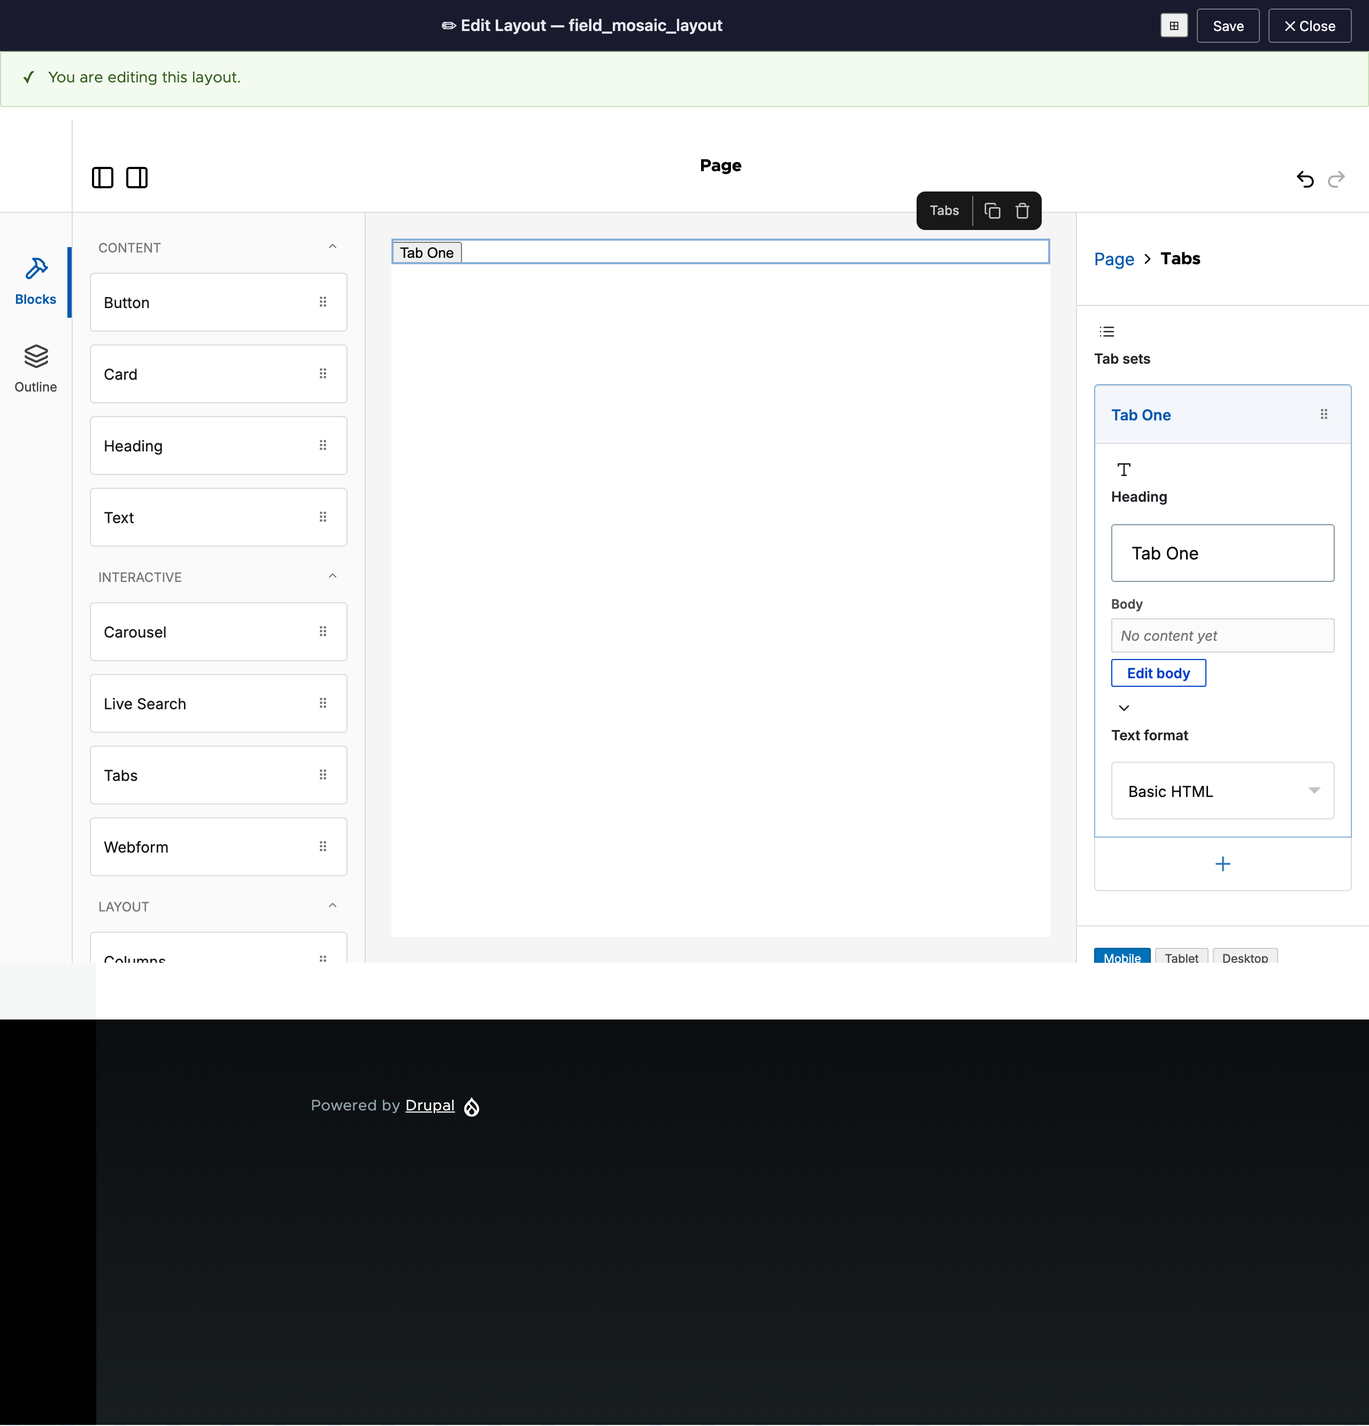
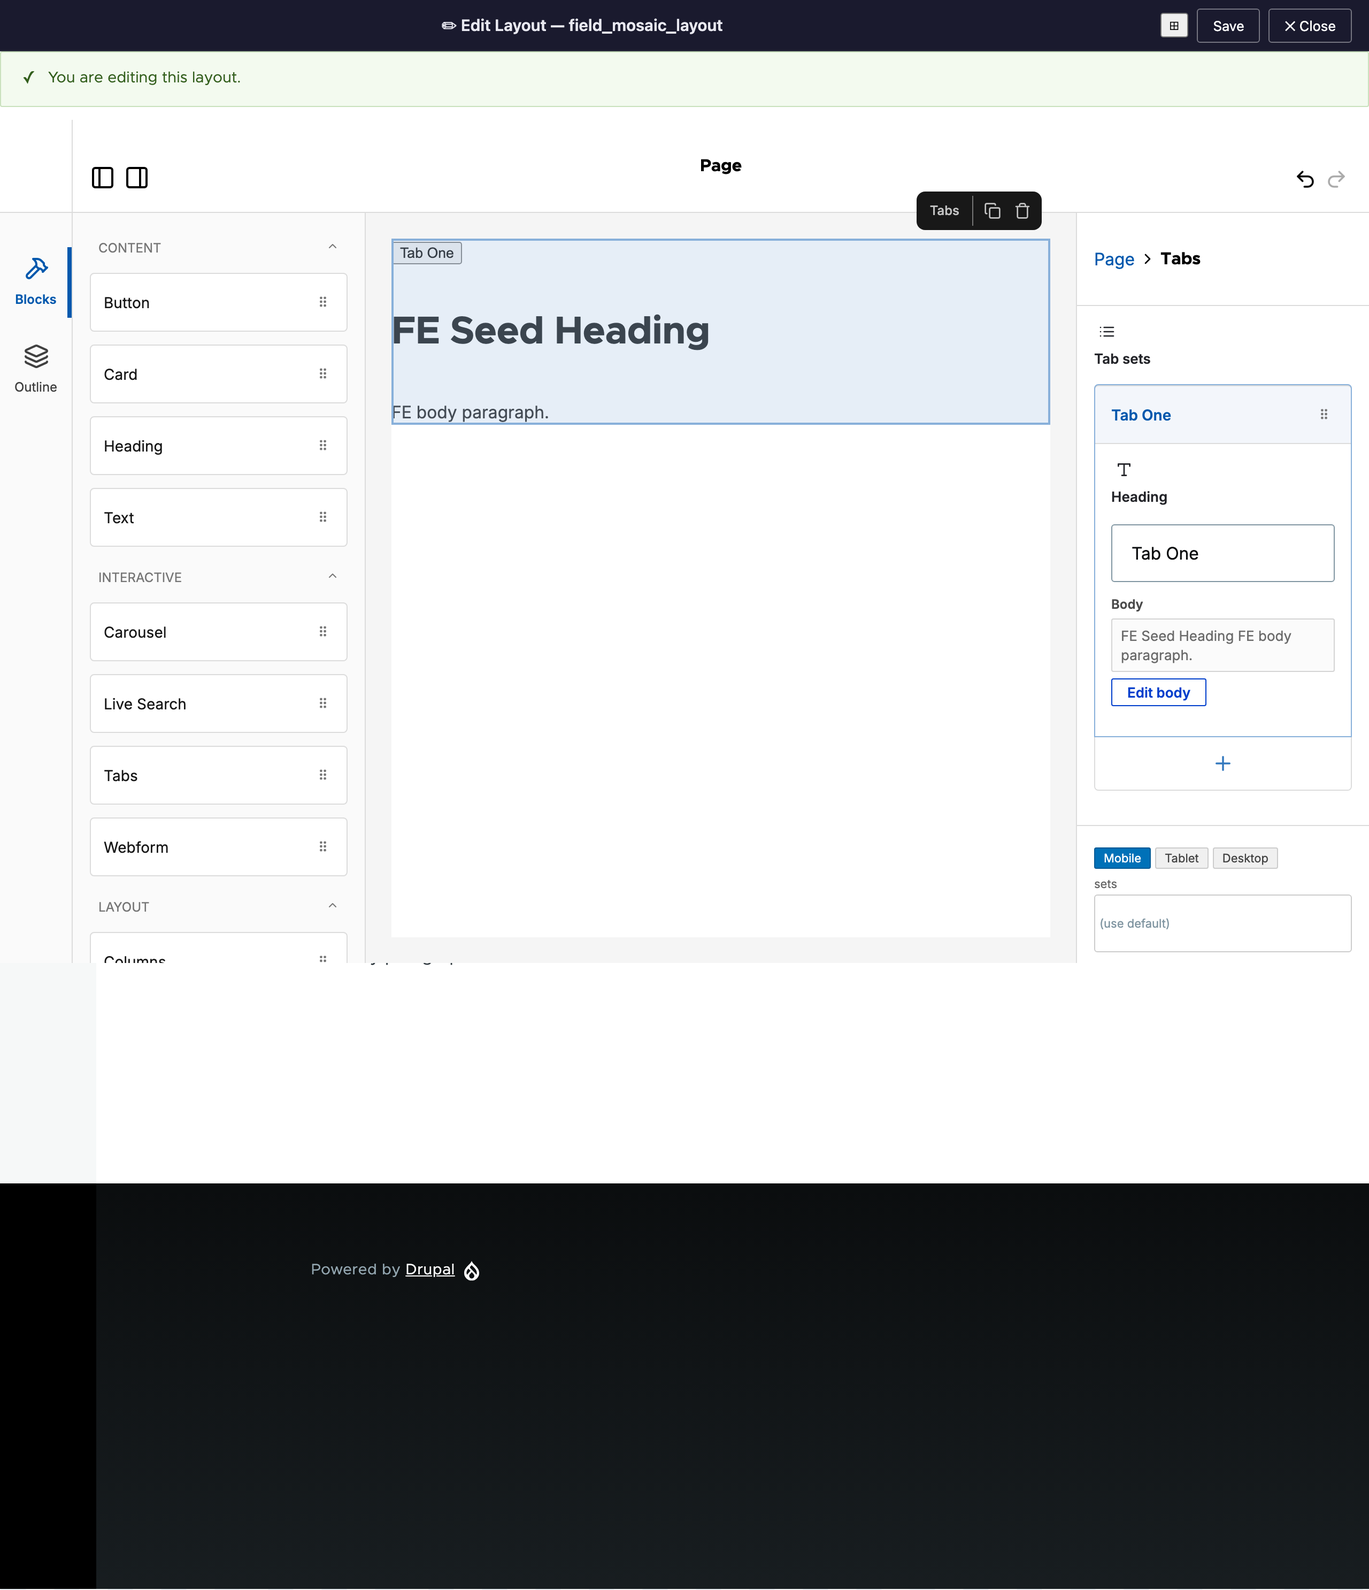
CP-EDIT21 editor UX round 2: album v3 + refreshed reports
Format select moved into the body modal (change → CKE5 re-attaches with that
format's toolbar; bodyFormat persists via a bridge — RED→GREEN, proven live).
Fit-to-content modal with the editable as the only scroller. Panel preview is now
a plain-text excerpt (no giant-heading-in-a-tiny-box). W4 FE-media admin-themed
iframe spike: STOP + report (route resists) — U3 kept. 20 frames, 3 green journeys,
real-pointer + elementFromPoint z-order oracles. SHIP-31 refreshed to 51 files.

diff --git a/tabs-cke5/INDEX.md b/tabs-cke5/INDEX.md
@@ -1,54 +1,56 @@
-# tabs-cke5 — CP-BODY-CKE5 + CP-EDIT20 journey album (v2)
+# tabs-cke5 — CP-BODY-CKE5 + CP-EDIT20 + CP-EDIT21 journey album (v3)
 
-CKEditor 5 body editor (expand modal) replacing the old in-panel TipTap fork.
-Three green full-lifecycle Playwright journeys, captured under the evidence-quality
-law (fullPage overviews / targeted assertion-region frames, deviceScaleFactor 2).
-Each journey uses a throwaway scratch node, auto-deleted (DB net-zero).
+CKEditor 5 body editor (expand modal) replacing the old in-panel TipTap fork, plus
+two rounds of editor-UX hardening. Three green full-lifecycle Playwright journeys,
+captured under the evidence-quality law (fullPage overviews / targeted assertion-region
+frames, deviceScaleFactor 2). Each journey uses a throwaway scratch node, auto-deleted
+(DB net-zero). Media steps use REAL pointers + a `document.elementFromPoint` z-order
+oracle (never evaluate-click).
 
-**v2 (CP-EDIT20, editor UX hardening #39–44):** the media-insert steps are now driven
-by REAL pointer interactions (locator.click / page.mouse — never evaluate-click) and
-assert z-order via `document.elementFromPoint` at the target's centre. The `media-library`
-frames prove the library lands **on top and is clickable** — admin (#40, modal z-index
-below Drupal's jQuery-UI dialog) and frontend (#43, the library is moved INTO the
-top-layer `<dialog>`). Other CP-EDIT20 items (fixed-shell modal, panel Body label + 3-line
-clamp preview, panel↔canvas active-tab sync, save-while-open guard) are covered by unit
-tests; see `reports/REPORT-CKE5.md`.
+**v3 (CP-EDIT21, editor UX round 2):** the format select moved INTO the modal (changing
+it re-attaches CKE5 with that format's toolbar — RED→GREEN); the modal fits content with
+the CKE5 editable as the only scroller; the panel preview is a plain-text excerpt (no
+more giant-heading-in-a-tiny-box). See `reports/REPORT-CKE5.md` for W0–W5 detail incl.
+the W4 FE-media iframe spike verdict (STOP + report).
 
 ## Admin surface — `tabs-cke5-journey.spec.ts`
-open seeded Tabs → Edit body (CKE5) → insert media → Apply → save → reload → render.
+open seeded Tabs → W3 plain-text preview → CKE5 modal (W1 geometry) → W2 format
+re-attach + bridge persistence → insert media (real pointer + z-order) → Apply → save →
+reload → anonymous render.
 
 | Frame | Shows | Proves |
 |-------|-------|--------|
-| `01-builder-open.png` | Admin builder open on the seeded Tabs node | step 01 — builder loads the layout |
-| `02-tab-set-expanded.png` | Tab set expanded: "Edit body" preview button | step 02 — richtext is a preview+button, `.ProseMirror` count 0 → TipTap gone |
-| `03-cke5-open.png` | CKE5 "Body" modal, editor attached, dimmed backdrop | step 03 — `Drupal.editorAttach` mounts CKE5 in the modal |
-| `04-media-library.png` | Drupal media library dialog opened from CKE5 | step 04 — the drupalMedia toolbar button works |
-| `05-media-in-cke5-body.png` | **Inserted image VISIBLE inside the CKE5 body** | step 04 assertion — media lands in `.ck-content` (MONEY FRAME) |
-| `06-applied.png` | Modal closed after Apply | step 05 — serialized layout carries `drupal-media` |
-| `07-saved.png` | Node saved, redirected to `/node/N` | step 06 — save succeeds |
-| `08-reloaded-persisted.png` | Builder reloaded | step 07 — persisted field JSON still has `drupal-media` |
-| `09-page-render.png` | Anonymous published page | step 08 — tabs + media render for visitors |
+| `01-builder-open.png` | Admin builder on the seeded Tabs node | builder loads the layout |
+| `02-tab-set-expanded.png` | Panel: "Body" label + **plain-text excerpt** + Edit body | W3 — excerpt is body-size text (<18px), no child markup, no scrollbar (contrast W0's 32px) |
+| `03-cke5-format-fullhtml.png` | Modal after selecting **Full HTML** | W2 — editor re-attached with full_html (toolbar swaps); bodyFormat persisted via the bridge |
+| `04-cke5-open.png` | CKE5 "Body" modal (back on Basic HTML) | W1 — fits-content modal, in-modal format select under the editable, ≤1 scroller |
+| `05-media-library.png` | Media library open from CKE5 | media button works; z-order oracle = library on top (#40) |
+| `06-media-in-cke5-body.png` | **Inserted image inside the CKE5 body** | media lands in `.ck-content` (MONEY FRAME) |
+| `07-applied.png` | Modal closed after Apply | serialized layout carries `drupal-media` |
+| `08-saved.png` | Node saved | save redirects to `/node/N` |
+| `09-reloaded-persisted.png` | Builder reloaded | persisted field JSON still has the media |
+| `10-page-render.png` | Anonymous published page | tabs + media render for visitors |
 
 ## Frontend surface — `tabs-cke5-fe-journey.spec.ts`
 FE editor (top-layer `<dialog>`, S3) → same CKE5 body flow → FE save → reopen.
 
 | Frame | Shows | Proves |
 |-------|-------|--------|
-| `FE-01-fe-open.png` | FE editor open in the top-layer `<dialog>` | step 01 — FE builder loads |
-| `FE-02-fe-expanded.png` | Tab set expanded, "Edit body" present | step 02 — `.ProseMirror` count 0 → TipTap gone on FE too |
-| `FE-03-fe-cke5-open.png` | CKE5 modal INSIDE the top-layer dialog | step 03 — modal in `dialog.mosaic-fe-dialog[open]` (S3) |
-| `FE-04-fe-media-library.png` | Media library opened from CKE5 on FE | step 04 — F-090 media stacks above the dialog |
-| `FE-05-fe-media-in-cke5.png` | **Inserted image VISIBLE inside the CKE5 body (FE)** | step 04 assertion (FE MONEY FRAME) |
-| `FE-06-fe-applied.png` | Body preview reflects the media after Apply | step 05 — onChange propagated before save |
-| `FE-07-fe-saved.png` | FE dialog closed after save | step 06 — FE save path succeeds |
-| `FE-08-fe-reopened-persisted.png` | FE editor reopened on the saved node | step 07 — drush server-truth: `field_mosaic_layout` has `drupal-media` |
+| `FE-01-fe-open.png` | FE editor in the top-layer `<dialog>` | FE builder loads |
+| `FE-02-fe-expanded.png` | Tab set expanded, Edit body present | no `.ProseMirror` (TipTap gone) on FE |
+| `FE-03-fe-cke5-open.png` | CKE5 modal INSIDE the top-layer dialog | modal in `dialog.mosaic-fe-dialog[open]` (S3) |
+| `FE-04-fe-media-library.png` | Media library on top inside the FE dialog | z-order oracle = media-library (#43 dialog-mover) |
+| `FE-05-fe-media-in-cke5.png` | **Inserted image inside the CKE5 body (FE)** | FE MONEY FRAME |
+| `FE-06-fe-applied.png` | Body preview reflects the seeded text after Apply | onChange propagated before save |
+| `FE-07-fe-saved.png` | FE dialog closed after save | FE save path succeeds |
+| `FE-08-fe-reopened-persisted.png` | FE editor reopened | drush server-truth: `field_mosaic_layout` has the media |
 
 ## False-dirty untouched-page — `false-dirty-untouched.spec.ts`
-Open a saved layout, touch nothing, close → no unsaved prompt (walk-catch #37 P3).
-
 | Frame | Shows | Proves |
 |-------|-------|--------|
-| `P3-untouched-open.png` | Saved layout open in the FE editor, untouched | setup — Puck mount-fire onChange has fired |
-| `P3-untouched-closed-clean.png` | Editor closed cleanly | assertion — NO `mosaic-unsaved-prompt`; false-dirty cured (RED→GREEN) |
+| `P3-untouched-open.png` | Saved layout open, untouched | Puck mount-fire has run |
+| `P3-untouched-closed-clean.png` | Editor closed cleanly | NO unsaved prompt; false-dirty cured (#37) |
 
-Total: 19 frames (admin 9 · frontend 8 · false-dirty 2).
+Total: 20 frames (admin 10 · frontend 8 · false-dirty 2). The W0 RED baseline is recorded
+by the witness test's live computed-value oracles in `reports/REPORT-CKE5.md` (the RED
+screenshots were lost to a shot-helper bug and cannot be re-captured post-fix).

diff --git a/reports/REPORT-CKE5.md b/reports/REPORT-CKE5.md
@@ -388,3 +388,88 @@ masked #40.
 - Suites re-run: Vitest 488/489 (only B-101); module unit+kernel FULL 2853/0-fail; phpcs 0;
   tabsPanelSync 3/3; BodyEditModal 9/9; admin+FE+P3 journeys GREEN under the real-pointer law;
   render sentinel green. Dist rebuilt (builder+FE+renderer, libraries 1.0.11→1.0.12).
+
+---
+
+## CP-EDIT21 — EDITOR UX ROUND 2 (Arun walk 2026-09-07). 
+
+### W0 MANIFESTATION WITNESS (RED — proven via the live oracle values)
+Served builder bundle version == disk **1.0.12** (no stale-serve; F-065 cleared).
+NOTE: the W0 RED screenshots were lost to a shot-helper naming bug (both shots wrote
+one file) + a premature cleanup; the code is now fixed so the RED cannot be
+re-captured (it would render GREEN). The RED is authoritatively recorded by the
+witness test's LIVE computed-value oracles below (the substantive proof); album v3 is
+the GREEN counterpart (02-tab-set-expanded = plain-text preview; 03-cke5-format-fullhtml
+= the format re-attach).
+- **W0(a) format-select → re-attach = BROKEN.** Breaking line `MosaicPuckAdapter.ts:1582`:
+  the modal's `format` was hard-bound to `default_format`; the sibling `bodyFormat`
+  panel select set a prop BodyEditModal never read. LIVE oracle: after selecting
+  "Full HTML" in the panel, the modal editor's `data-editor-active-text-format`
+  stayed `basic_html`. RED.
+- **W0(b) preview = giant-heading-in-tiny-box.** LIVE: the panel preview rendered the
+  stored HTML, so a stored `<h1>` computed to **32.4px** in the ~13px preview box. RED.
+
+### W1 MODAL SIZING — modal FITS CONTENT (no fixed-85vh monolith)
+`.mosaic-body-modal__panel` width min(960px,92vw), height auto capped at 90vh; the
+CKE5 editable is the ONLY scroller (min-height 300px → grows to max ~55vh then
+scrolls); background stays scroll-locked. Both surfaces.
+
+### W2 FORMAT SELECT INTO THE MODAL (RED→GREEN)
+The select now renders IN the modal, directly UNDER the editable (core node-form
+anatomy), human labels, single-format authors see none. Changing it RE-ATTACHES CKE5
+with that format's toolbar (detach → preserve HTML → re-attach with the new format).
+The panel select is REMOVED. bodyFormat still persists: it stays a real Puck field
+rendered HIDDEN in the panel, registering its value+setter in a new
+`richtextFormatBridge` keyed by field id; BodyEditModal reaches it via
+`bodyFieldId + "Format"` (sibling array-item ids share the path). Body stays a plain
+HTML string and toPuck/fromPuck (F-089) are UNTOUCHED. Server write-path format guard
+(MosaicPropValidator) unchanged → guard cells stay green. Unit: BodyEditModal W2 3/3
+(single→no select; select under editable; change→re-attach with full_html).
+
+### W3 PREVIEW REDESIGN — plain-text excerpt
+`plainExcerpt()`: DOMParser → drop script/style → space-join block boundaries →
+textContent (tags stripped, entities decoded, whitespace collapsed). Rendered as
+body-size muted text, 3-line clamp with ellipsis, F-060 "Body" label; empty → "No
+content yet" italic. A stored `<h1>` can no longer blow up the box (it's text now).
+Unit: W3 excerpt (entity decode + tag strip + script-text dropped).
+
+### W4 FE MEDIA — ADMIN-THEMED IFRAME SPIKE → STOP + REPORT (route resists)
+Spike verdict: the admin-themed-iframe approach RESISTS cleanly; NOT silently falling
+back. Two structural blockers:
+1. `/media-library` (media_library.ui) is NOT an `_admin_route` → in an iframe on a FE
+   page it renders in the FRONTEND theme. Forcing admin theme needs a theme negotiator
+   or a route alter (global-ish, invasive).
+2. Selection returns via `MediaLibraryEditorOpener::getSelectionResponse()` → an
+   `AjaxResponse` carrying an `EditorDialogSave` command bound to the OPENER's editor.
+   In an iframe that command fires in the IFRAME's document and never reaches the
+   parent's CKE5 instance — so a whole new subsystem is required: a custom opener
+   plugin returning a postMessage command + a parent-side bridge to receive it and
+   insert at the CKE5 cursor (duplicating CKE5's native drupalMedia insert, with
+   undo/cursor-integration risk).
+**Options reported:**
+- **A (RECOMMENDED): keep the CP-EDIT20 U3 approach** — move the real jQuery-UI dialog
+  into the top-layer FE `<dialog>` + Claro media_library CSS. Works today (proven live,
+  real-pointer z-order = media-library on top), native cursor-correct insert, minimal
+  surface. This is the reasoned recommendation, not a silent fallback.
+- **B: the admin-themed iframe** — a new custom opener + theme negotiator + postMessage/
+  cursor bridge. High effort + risk (re-implements native insert); not worth it.
+- **C: polish U3 theming** — load additional Claro library CSS into the FE dialog if the
+  current styling reads insufficient. Low-risk middle path if Arun wants it crisper.
+
+### CP-EDIT21 W5 GATES + DOUBLE-CHECK
+- Vitest 491/492 (only B-101 pre-existing boolean→radio). BodyEditModal W2/W3 green,
+  tabsPanelSync 3/3, DirtyBaseline/useDirtyGuard/LockManager green. typecheck clean (dsdShadow only).
+- NO PHP changed in CP-EDIT21 (all JS/CSS) → FULL Kernel + FULL Unit inherit CP-EDIT20's
+  2853 tests / 0 failures. phpcs 0 errors (changed CSS). Renderer bundle unchanged this
+  round → the published-render sentinel holds. dist rebuilt (builder+FE, libraries 1.0.13).
+- Journeys GREEN under the real-pointer law: admin (W1 geometry ≤1 scroller + W2 format
+  re-attach RED→GREEN + bridge PERSISTENCE live [bodyFormat full_html↔basic_html] + W3
+  plain-text preview [<18px, no child markup, no scrollbar] + media z-order), FE (top-layer
+  dialog + media z-order + FE save persists), P3 untouched-page (no false dirty). Scratch
+  entities auto-deleted (DB net-zero). Album v3 in AI/e2e-evidence/tabs-cke5/ + the W0 RED
+  film in AI/e2e-evidence/w0-red/.
+- DOUBLE-CHECK what-could-break: W2 bridge keyed by `bodyFieldId+"Format"` — a mismatch
+  would silently drop the format; PROVEN live (serialized bodyFormat changes). Single-format
+  authors get no select (fmtList<2) and BodyEditModal falls back to `format`. body stays a
+  string; toPuck/fromPuck + F-089 untouched. Save-guard (#44) + FE dialog-mover (#43) + tab
+  sync (#42) from CP-EDIT20 carried unchanged. W4 iframe NOT built (route resists) — U3 kept.

diff --git a/reports/SHIP-31-CKE5.md b/reports/SHIP-31-CKE5.md
@@ -1,14 +1,17 @@
-# SHIP #31 — CONSOLIDATED authoritative ship-list (refreshed 2026-09-07, +CP-EDIT20)
+# SHIP #31 — CONSOLIDATED authoritative ship-list (refreshed 2026-09-07, +CP-EDIT21)
 
 Read-only git, NOTHING staged. Arun commits after his re-walk. Refreshed after
-CP-EDIT20 (editor UX hardening, walk-catches #39–44) rode in — totals grew from 45.
+CP-EDIT21 (editor UX round 2, walk W0–W5) rode in — one new file since CP-EDIT20.
 
-## EXACT TOTALS (verified via git, this session — post CP-EDIT20)
+## EXACT TOTALS (verified via git, this session — post CP-EDIT21)
 - (a) tracked changes  `git status --short | grep -v '^??'`  = **36**  (all ` M`, zero ` D`)
-- (b) untracked keep-list (minus AI/, *.log, assets/, *.zip, .DS_Store, esc-probe.config.ts) = **14**
-- **GRAND TOTAL = 50 files**  (was 45 at CP-BODY-CKE5; +5 CP-EDIT20)
-- `git check-ignore` verdict: **50/50 ship-ok (0 ignored)**
-- By origin: cke5-edit20 **23** · f087 **13** · stages34 **10** · f089-093 **4**
+- (b) untracked keep-list (minus AI/, *.log, assets/, *.zip, .DS_Store, esc-probe.config.ts) = **15**
+- **GRAND TOTAL = 51 files**  (45 at CP-BODY-CKE5; +5 CP-EDIT20; +1 CP-EDIT21: richtextFormatBridge.ts)
+- `git check-ignore` verdict: **51/51 ship-ok (0 ignored)**
+- CP-EDIT21 also RE-TOUCHED (already tracked-M): css/mosaic-fields.css, js/dist/builder.js,
+  js/dist/frontend-editor.js, js/src/builder/MosaicPuckAdapter.ts, js/src/builder/fields/
+  BodyEditModal.tsx, js/src/builder/__tests__/BodyEditModal.test.tsx, mosaic.libraries.yml (1.0.13).
+- By origin (loose): cke5+edit20+edit21 **24** · f087 **13** · stages34 **10** · f089-093 **4**
   (cke5 18 folded into cke5-edit20; CP-EDIT20 added 5: css/mosaic-frontend-editor.css,
    js/dist/renderer.js, js/src/renderer/components/mosaic-tabs.ts, js/src/builder/tabsPanelSync.ts,
    js/src/builder/__tests__/tabsPanelSync.test.ts — and touched BodyEditModal/BuilderApp/
@@ -18,7 +21,7 @@ CP-EDIT20 (editor UX hardening, walk-catches #39–44) rode in — totals grew f
   DrupalMediaSurvival.test.ts, RichtextMediaMenu.test.tsx, RichtextField.test.ts) were
   UNTRACKED, so their deletion leaves **0** entries in git status — correctly absent.
 
-## (a) TRACKED-M — 33 files  [file — origin — check-ignore]
+## (a) TRACKED-M — 36 files (33 below + 3 CP-EDIT20/21: mosaic-frontend-editor.css, js/dist/renderer.js, js/src/renderer/components/mosaic-tabs.ts)  [file — origin — check-ignore]
 ```
 MOSAIC.md                                                              f087       ship-ok
 css/mosaic-fields.css                                                  cke5       ship-ok
@@ -58,7 +61,7 @@ Tracked-M by origin: cke5 13 · f087 11 · stages34 6 · f089-093 3.
 Note: MOSAIC.md is the cumulative changelog doc (touched every wave); tagged f087 by
 its most-recent signature but not exclusive to one wave.
 
-## (b) UNTRACKED KEEP-LIST — 12 files  [file — origin — check-ignore]
+## (b) UNTRACKED KEEP-LIST — 15 files (12 below + 3 CP-EDIT20/21: tabsPanelSync.ts, tabsPanelSync.test.ts, richtextFormatBridge.ts)  [file — origin — check-ignore]
 ```
 js/src/builder/__tests__/BodyEditModal.test.tsx                       cke5       ship-ok
 js/src/builder/__tests__/TabsArrayUX.test.ts                          stages34   ship-ok
@@ -81,14 +84,14 @@ Untracked-keep by origin: cke5 5 · stages34 4 · f087 2 · f089-093 1.
 testIgnore'd esc-sequence-probe spec). Only AI/** and js/e2e/** are gitignored; the
 rest are NON-ignored dev noise — which is EXACTLY why `git add -A` must NOT be used.
 
-## EXACT git add commands for Arun (stages precisely the 45, no noise)
+## EXACT git add commands for Arun (stages precisely the 51, no noise)
 ```sh
 cd web/modules/custom/mosaic
 
 # 1) all 33 tracked modifications (updates tracked files only — never adds untracked noise)
 git add -u
 
-# 2) the 14 new (untracked) ship files — explicit, so no dev noise is swept in
+# 2) the 15 new (untracked) ship files — explicit, so no dev noise is swept in
 git add \
   js/src/builder/__tests__/BodyEditModal.test.tsx \
   js/src/builder/__tests__/TabsArrayUX.test.ts \
@@ -96,6 +99,7 @@ git add \
   js/src/builder/__tests__/tabsPanelSync.test.ts \
   js/src/builder/fields/BodyEditModal.tsx \
   js/src/builder/tabsPanelSync.ts \
+  js/src/builder/richtextFormatBridge.ts \
   js/src/shared/__tests__/DirtyBaseline.test.ts \
   modules/mosaic_media/css/mosaic-media-fe.css \
   src/Service/MosaicEditorAttachments.php \
@@ -106,7 +110,7 @@ git add \
   tests/src/Kernel/Service/MosaicTextFormatGuardTest.php
 
 # 3) verify EXACTLY 50 staged, and that no noise slipped in
-git diff --cached --name-only | wc -l          # must print 50
+git diff --cached --name-only | wc -l          # must print 51
 git diff --cached --name-only | grep -E '\.log$|^AI/|^assets/|\.zip$|esc-probe' || echo "clean — no noise staged"
 ```
 CP-EDIT20 tracked-M additions (already covered by `git add -u`): css/mosaic-frontend-editor.css,

diff --git a/INDEX.md b/INDEX.md
@@ -3,13 +3,17 @@
 Reviewer entry point. Evidence + run reports only (no code, DB, or secrets).
 
 ## Albums
-- [`tabs-cke5/`](tabs-cke5/INDEX.md) — **CP-BODY-CKE5 + CP-EDIT20 (v2)**: CKEditor 5 body
-  editor (expand modal) replaces the TipTap fork, plus editor UX hardening (#39–44). 19
-  frames across 3 green full-lifecycle journeys (admin, frontend, false-dirty untouched).
-  v2 drives the media steps with REAL pointers + `elementFromPoint` z-order oracle.
-  - Money frame — image visible inside the CKE5 body (**admin**): [`tabs-cke5/05-media-in-cke5-body.png`](tabs-cke5/05-media-in-cke5-body.png)
-  - Money frame — image visible inside the CKE5 body (**frontend**): [`tabs-cke5/FE-05-fe-media-in-cke5.png`](tabs-cke5/FE-05-fe-media-in-cke5.png)
-  - Stacking proof — media library on top (**admin #40**): [`tabs-cke5/04-media-library.png`](tabs-cke5/04-media-library.png)
+- [`tabs-cke5/`](tabs-cke5/INDEX.md) — **CP-BODY-CKE5 + CP-EDIT20 + CP-EDIT21 (v3)**:
+  CKEditor 5 body editor (expand modal) replaces the TipTap fork, plus two rounds of
+  editor-UX hardening. 20 frames across 3 green full-lifecycle journeys (admin, frontend,
+  false-dirty untouched). Media steps use REAL pointers + `elementFromPoint` z-order oracle.
+  v3 adds: format select IN the modal (change → re-attach, RED→GREEN), fit-to-content modal,
+  plain-text preview (no giant-heading-in-tiny-box).
+  - Money frame — image inside the CKE5 body (**admin**): [`tabs-cke5/06-media-in-cke5-body.png`](tabs-cke5/06-media-in-cke5-body.png)
+  - Money frame — image inside the CKE5 body (**frontend**): [`tabs-cke5/FE-05-fe-media-in-cke5.png`](tabs-cke5/FE-05-fe-media-in-cke5.png)
+  - Format re-attach (**W2, admin #Full HTML**): [`tabs-cke5/03-cke5-format-fullhtml.png`](tabs-cke5/03-cke5-format-fullhtml.png)
+  - Plain-text preview (**W3, no giant heading**): [`tabs-cke5/02-tab-set-expanded.png`](tabs-cke5/02-tab-set-expanded.png)
+  - Stacking proof — media library on top (**admin #40**): [`tabs-cke5/05-media-library.png`](tabs-cke5/05-media-library.png)
   - Stacking proof — media library on top inside the top-layer dialog (**frontend #43**): [`tabs-cke5/FE-04-fe-media-library.png`](tabs-cke5/FE-04-fe-media-library.png)
 
 ## Reports
